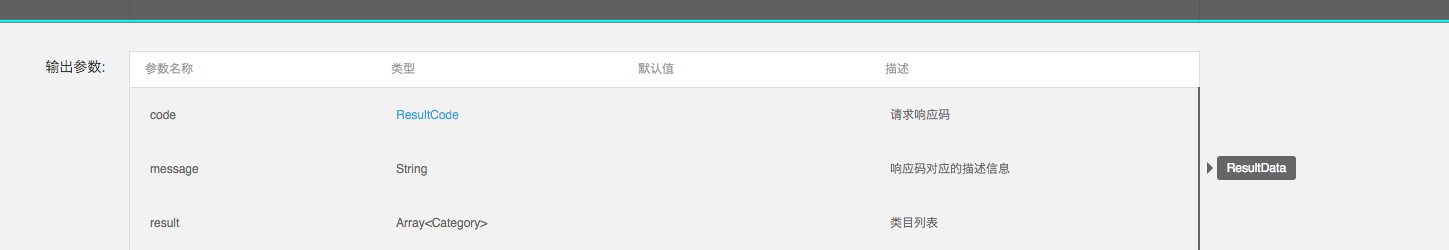
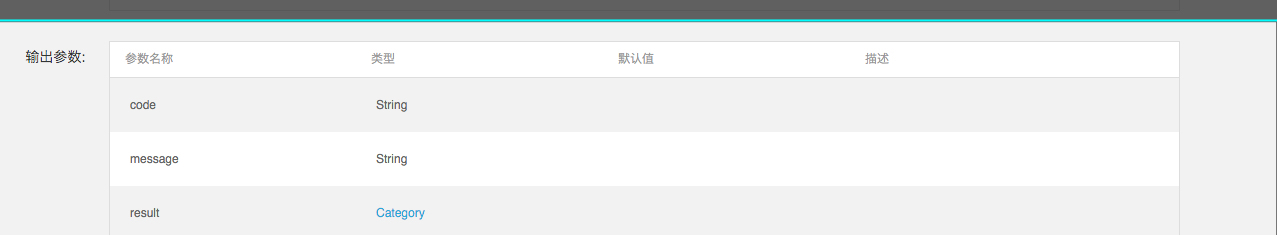
build oc requests

diff --git a/lib/nei/mobile.js b/lib/nei/mobile.js
@@ -350,33 +350,87 @@ pro._exportRequestOC = function(config,options,data){
         if (dataTypeName) {
             // imported datatype
             var isResultDataModel = dataTypeName === 'ResultData';
+            var resultOutput;
+            if (isResultDataModel) {
+                resultOutput = _.find(outputs, function (output) {
+                    return output.name === 'result'
+                });
+            }
+            if (resultOutput) {
+                self.emit('debug',{
+                    data: [resultOutput.typeName],
+                    message: 'Build OC request: output is "ResultData", "result" model is "%s"'
+                });
+            } else {
+                self.emit('error',{
+                    message: 'Build OC request: output is "ResultData", but it has no "result" field'
+                });
+                return {};
+            }
             return {
-                model: dataTypeName,
+                model: resultOutput.typeName,
                 name: isResultDataModel ? 'result' : null
             }
         }
         if (outputs.length === 1) {
-            return {
-                model: firstOutput.typeName,
-                name: firstOutput.name
+            if (!self._dataTypeMap[firstOutput.type]) {
+                return {
+                    model: firstOutput.typeName,
+                    name: firstOutput.name
+                }
             }
         }
-        return {}
+        self.emit('debug',{
+            message: 'Build OC request: outputs does not follow the Gen Rules'
+        });
+        return {};
     };
     var getReqInfo = function (inputs) {
         var dataTypes = [];
         var models = [];
-        inputs.forEach(function (input) {
-            var type = self._types[input.type];
+        var autoAddedName;
+        var isAnImportedDataType = function () {
+            var datatypeId;
+            for(var i = 0, l = inputs.length; i < l; i++) {
+                if (!datatypeId) {
+                    datatypeId = inputs[i].datatypeId
+                }
+                if (datatypeId !== inputs[i].datatypeId) {
+                    return false;
+                }
+            }
+            if (datatypeId) {
+                return true;
+            }
+        };
+        var setDataTypeAndModel = function (input, dataTypeId) {
+            var type = self._types[dataTypeId];
             var prop = self._getProp(type, input);
             type.klses && Object.keys(type.klses).forEach(function (key) {
                 models.push(type.klses[key]);
             });
             dataTypes.push(prop);
-        });
+        };
+        if (isAnImportedDataType()) {
+            var first = inputs[0];
+            var getTypeName = function (name) {
+                return name.charAt(0).toLowerCase() + name.slice(1);
+            };
+            autoAddedName = getTypeName(first.datatypeName);
+            setDataTypeAndModel({
+                name: autoAddedName,
+                type: first.datatypeId,
+                description: first.datatypeName
+            }, first.datatypeId);
+        } else {
+            inputs.forEach(function (input) {
+                setDataTypeAndModel(input, input.type);
+            });
+        }
         return {
             dataTypes: dataTypes,
-            models: _.uniq(models.sort(), true)
+            models: _.uniq(models.sort(), true),
+            autoAddedName: autoAddedName
         }
     };
     var reqs = [];
@@ -393,6 +447,7 @@ pro._exportRequestOC = function(config,options,data){
                 description: itf.description,
                 reqDataTypes: reqInfo.dataTypes,
                 reqModels: reqInfo.models,
+                reqAutoAddedName: reqInfo.autoAddedName,
                 resModel: res.model,
                 resName: res.name
             };

diff --git a/lib/nei/mobile/template/oc/request.m b/lib/nei/mobile/template/oc/request.m
@@ -7,7 +7,7 @@
 //  Auto build by NEI Builder
 
 #import "{{conf.prefix}}{{req.name}}Request.h"
-#import "{{conf.prefix}}{{req.resModel}}.h"
+{% if req.resModel %}#import "{{conf.prefix}}{{req.resModel}}.h"{% endif%}
 
 /**
  *  {{req.description}}
@@ -23,7 +23,7 @@
 }
 
 + (RKMapping *)responseMapping {
-    return [{{conf.prefix}}{{req.resModel}} defaultResponseMapping];
+    return {% if req.resModel %}[{{conf.prefix}}{{req.resModel}} defaultResponseMapping]{% else %}nil{% endif %};
 }
 
 + (NSString *)keyPath {
@@ -31,7 +31,7 @@
 }
 
 - (NSDictionary *)requestParams {
-    NSDictionary *dic = [self ht_modelToJSONObject];
+    NSDictionary *dic = [self{% if req.reqAutoAddedName %}.{{req.reqAutoAddedName}}{%endif%} ht_modelToJSONObject];
     if ([dic isKindOfClass:[NSDictionary class]] && [dic count] > 0) {
         return dic;
     }

diff --git a/lib/nei/mobile/template/oc/request.h b/lib/nei/mobile/template/oc/request.h
@@ -11,6 +11,7 @@
 {%- for model in req.reqModels %}
 @class {{conf.prefix}}{{model}};
 {%- endfor %}
+
 /**
  *  {{req.description}}
  */
